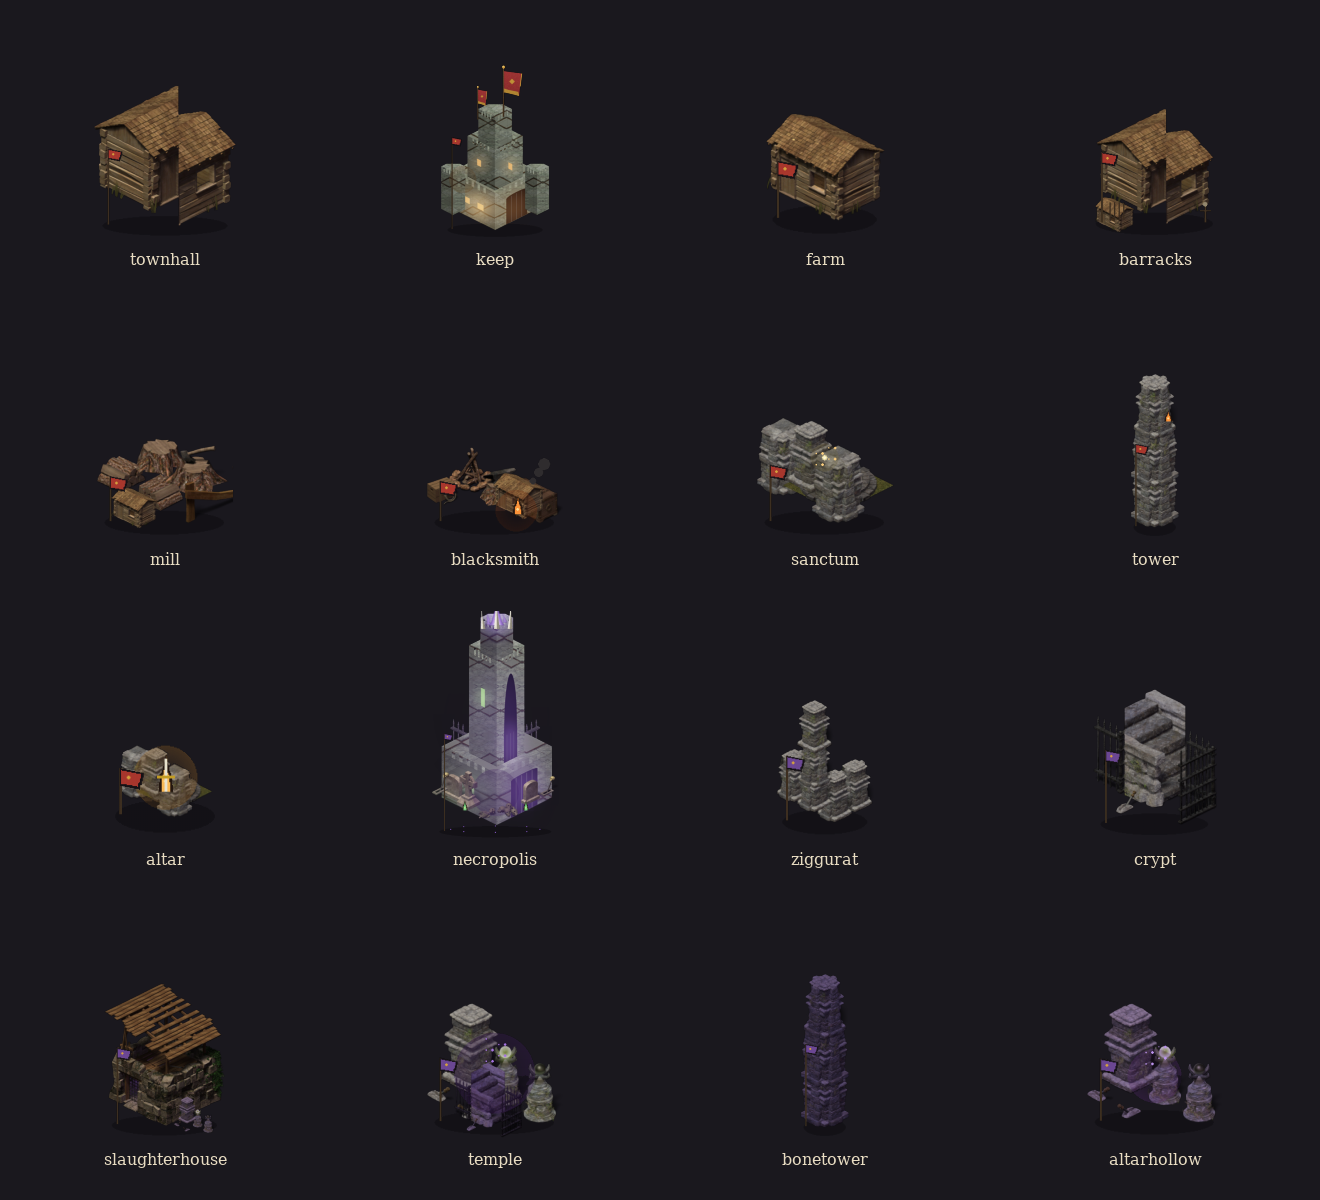
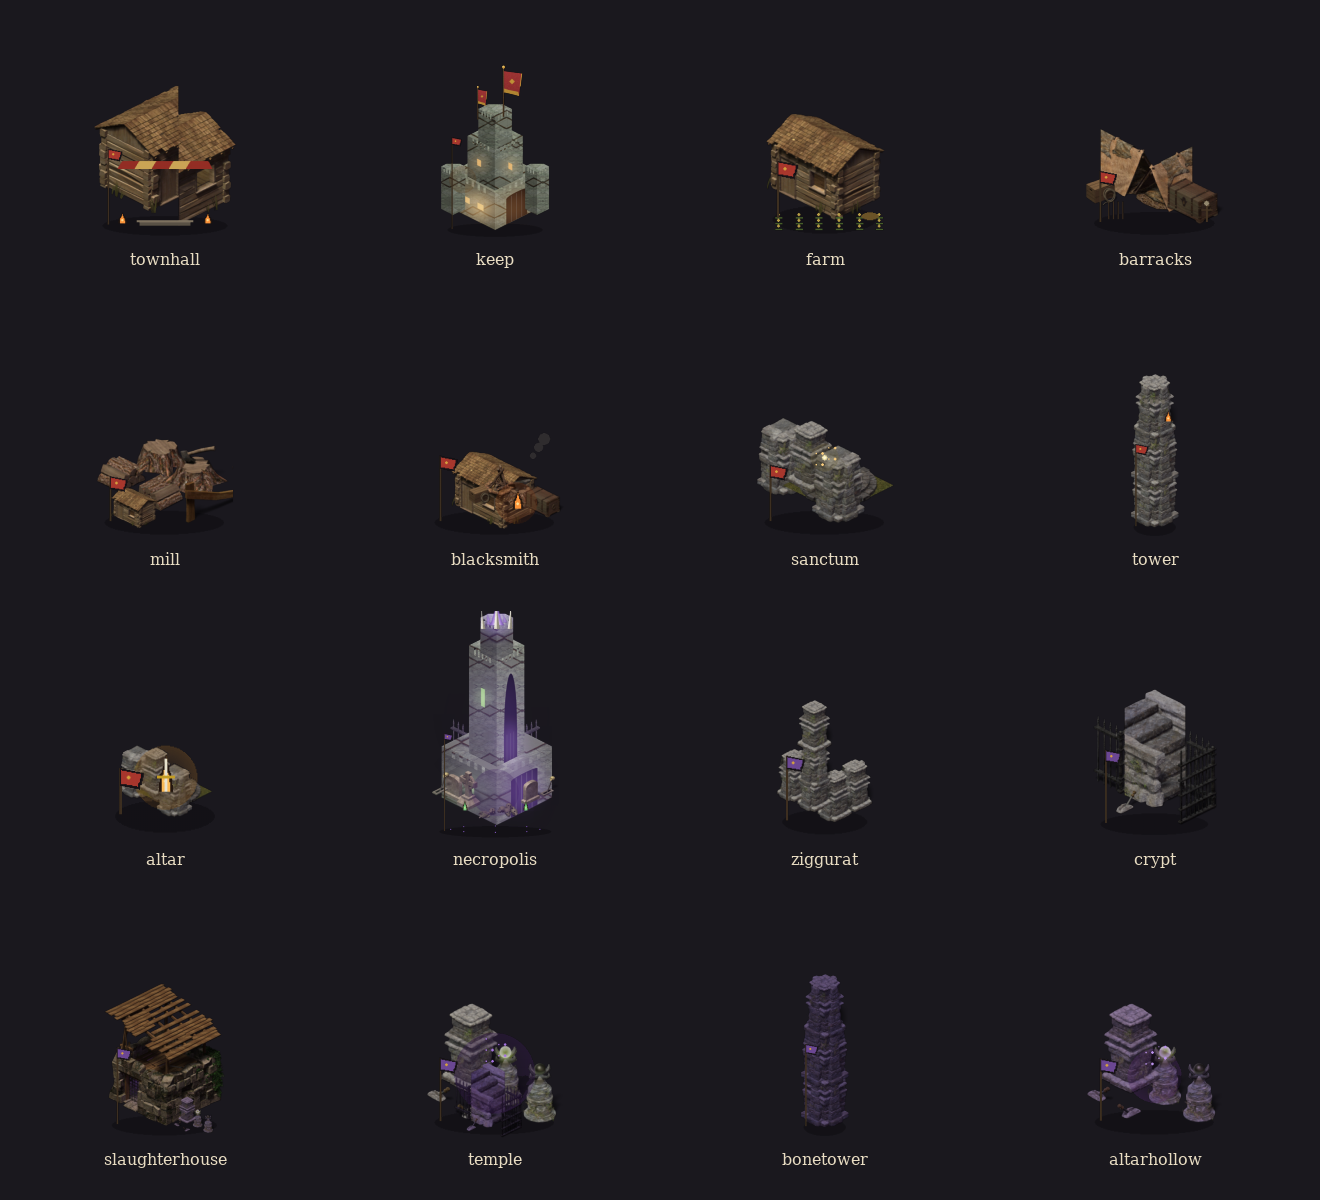
Readable opening and unit silhouettes
- Chart the vale at mission start; select hero; center camera on hall (no black slab)
- Warm top-left rim light + larger units + steel tint; painted Flare face portraits
- Barracks is now a distinct tent camp, town hall gets porch awning/steps, tower crenellations
- Alt+Enter fullscreen; SDL WM class/app id; arrow-only camera with A/S commands

Changed region(s): [[0.8076, 0.0925, 0.9318, 0.2158], [0.3106, 0.37, 0.4348, 0.4625], [0.0932, 0.1233, 0.1553, 0.1542]]

diff --git a/emberfall/src/flare_units.py b/emberfall/src/flare_units.py
@@ -46,10 +46,10 @@ ENEMIES = {
 RANGED = {"archer": "shoot", "priest": "shoot", "fiend": "shoot",
           "necromancer": "cast", "revenant": "cast", "hero": "swing"}
 UNIT_SCALE = {
-    "worker": 1.18, "footman": 1.24, "archer": 1.18, "knight": 1.36, "priest": 1.20,
-    "hero": 1.55, "ghoul": 1.18, "fiend": 1.24, "necromancer": 1.18, "abomination": 1.42,
-    "revenant": 1.30, "skeleton": 1.06, "goblin": 1.08, "goblin-brute": 1.30,
-    "hollow-king": 1.60,
+    "worker": 1.30, "footman": 1.36, "archer": 1.30, "knight": 1.50, "priest": 1.32,
+    "hero": 1.70, "ghoul": 1.30, "fiend": 1.36, "necromancer": 1.30, "abomination": 1.56,
+    "revenant": 1.43, "skeleton": 1.17, "goblin": 1.19, "goblin-brute": 1.43,
+    "hollow-king": 1.76,
 }
 TINT = {
     "hero": (1.0, 0.9, 0.62),
@@ -185,7 +185,20 @@ class FlareUnits:
         w, h = surf.get_size()
         surf = pygame.transform.smoothscale(surf, (max(1, int(w * sc)), max(1, int(h * sc))))
         # Flare's painted units are very dark; lift them enough to read on the vale.
-        surf.fill((68, 59, 46, 0), special_flags=pygame.BLEND_RGB_ADD)
+        surf.fill((88, 76, 60, 0), special_flags=pygame.BLEND_RGB_ADD)
+        # top-left warm rim light: light edges separate the unit from dark ground
+        try:
+            mask = pygame.mask.from_surface(surf)
+            rim_col = (238, 205, 150, 96) if team == PLAYER else (166, 148, 224, 88)
+            rim = mask.to_surface(setcolor=rim_col, unsetcolor=(0, 0, 0, 0))
+            out = pygame.Surface((surf.get_width() + 2, surf.get_height() + 2), pygame.SRCALPHA)
+            out.blit(rim, (0, 0))
+            out.blit(surf, (1, 1))
+            surf = out
+            ax += 1 / max(sc, 0.001)
+            ay += 1 / max(sc, 0.001)
+        except Exception:
+            pass
         res = (surf, ax * sc, ay * sc)
         self.cache[key] = res
         return res

diff --git a/emberfall/src/flare_buildings.py b/emberfall/src/flare_buildings.py
@@ -171,8 +171,24 @@ class BuildingArt:
             motes(cx, base_y - th * 0.50, 8, (190, 150, 240))
         elif bid == "tower":
             flame(cx + tw * 0.28, base_y - th * 0.70, 20)
+            ty = base_y - th * 0.84
+            for i in range(4):
+                pygame.draw.rect(s, (112, 106, 96), (cx - tw * 0.22 + i * tw * 0.12, ty, tw * 0.07, 8))
         elif bid == "keep":
             glow(cx - tw * 0.30, base_y - th * 0.30, 34, (100, 60, 20), 60)
+        elif bid == "townhall":
+            # stone steps + a crimson market awning: the hall is not a farm cabin
+            pygame.draw.rect(s, (92, 84, 72), (cx - tw * 0.18, base_y - 8, tw * 0.36, 7))
+            pygame.draw.rect(s, (128, 116, 98), (cx - tw * 0.20, base_y - 11, tw * 0.40, 4))
+            ay = base_y - th * 0.46
+            for i in range(5):
+                col = (150, 48, 38) if i % 2 == 0 else (206, 168, 88)
+                pygame.draw.polygon(s, col, [(cx - tw * 0.30 + i * tw * 0.12, ay),
+                                             (cx - tw * 0.30 + (i + 1) * tw * 0.12, ay),
+                                             (cx - tw * 0.27 + (i + 1) * tw * 0.12, ay + 13),
+                                             (cx - tw * 0.33 + i * tw * 0.12, ay + 13)])
+            flame(cx - tw * 0.30, base_y - 6, 18)
+            flame(cx + tw * 0.30, base_y - 6, 18)
         elif bid == "farm":
             # planted rows turn a cabin into a working farm
             for row in range(3):

diff --git a/emberfall/src/app.py b/emberfall/src/app.py
@@ -66,6 +66,8 @@ class Game:
                                                fullscreen=False, music=0.5, sfx=0.72, autoplay=False)
         pygame.mixer.pre_init(44100, -16, 2, 512)
         os.environ.setdefault("SDL_VIDEO_CENTERED", "1")
+        os.environ.setdefault("SDL_VIDEO_X11_WMCLASS", "Emberfall")
+        os.environ.setdefault("SDL_APP_ID", "Emberfall")
         pygame.init()
         self.fullscreen = bool(getattr(self.args, "fullscreen", False))
         self.window = open_window(self.fullscreen)
@@ -658,7 +660,7 @@ class Game:
             self.ui.cycle_subgroup(); return
         if k == pygame.K_o:
             self.ui.show_objectives = not self.ui.show_objectives; return
-        if k == pygame.K_F11:
+        if k == pygame.K_F11 or (k in (pygame.K_RETURN, pygame.K_KP_ENTER) and (mods & pygame.KMOD_ALT)):
             self.toggle_fullscreen()
             return
         if pygame.K_1 <= k <= pygame.K_9:
